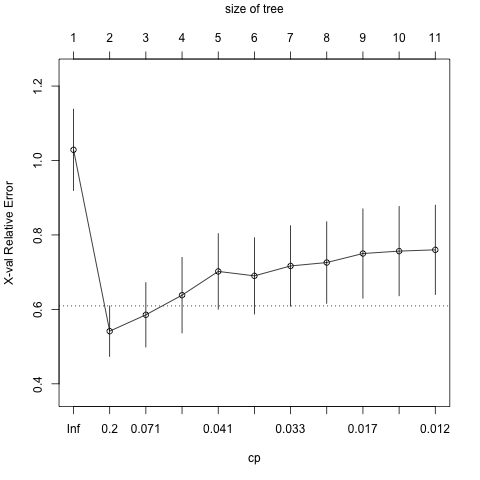
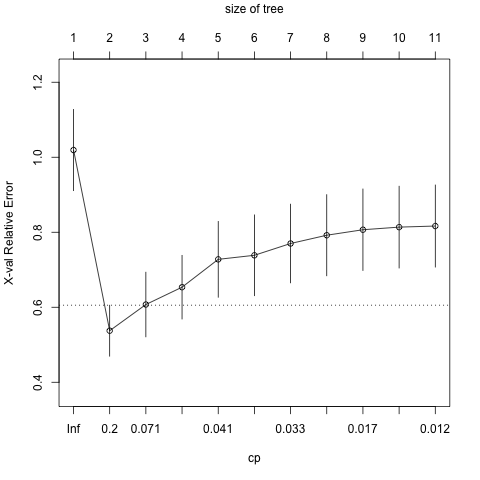
draft for presentation

diff --git a/README.md b/README.md
@@ -50,10 +50,12 @@ the subsequent factors, each of which is a microbial species.
 1. [phototropic sulfur bacterium, oxidizer](https://doi.org/10.1111/j.1365-2958.2006.05408.x)
 
 ### Pseudomonas oryzae
-1. 
+1. [slime producing pathogen](http://dx.doi.org/10.20546/ijcmas.2017.603.117)
 
 ## Yield prediction model
 As an attempt at the holy grail of modern precision agronomics, I've build a
-yield prediction model using a random forest.
+yield prediction model using a regression tree with an ANOVA split criterion.
+The model is regretably simple, but it appears to perform moderately well, even
+with a small number of features (10).
 
-## 
+![Image](https://raw.githubusercontent.com/ekalosak/trace_genomics/master/prediction_accuracy.png)
